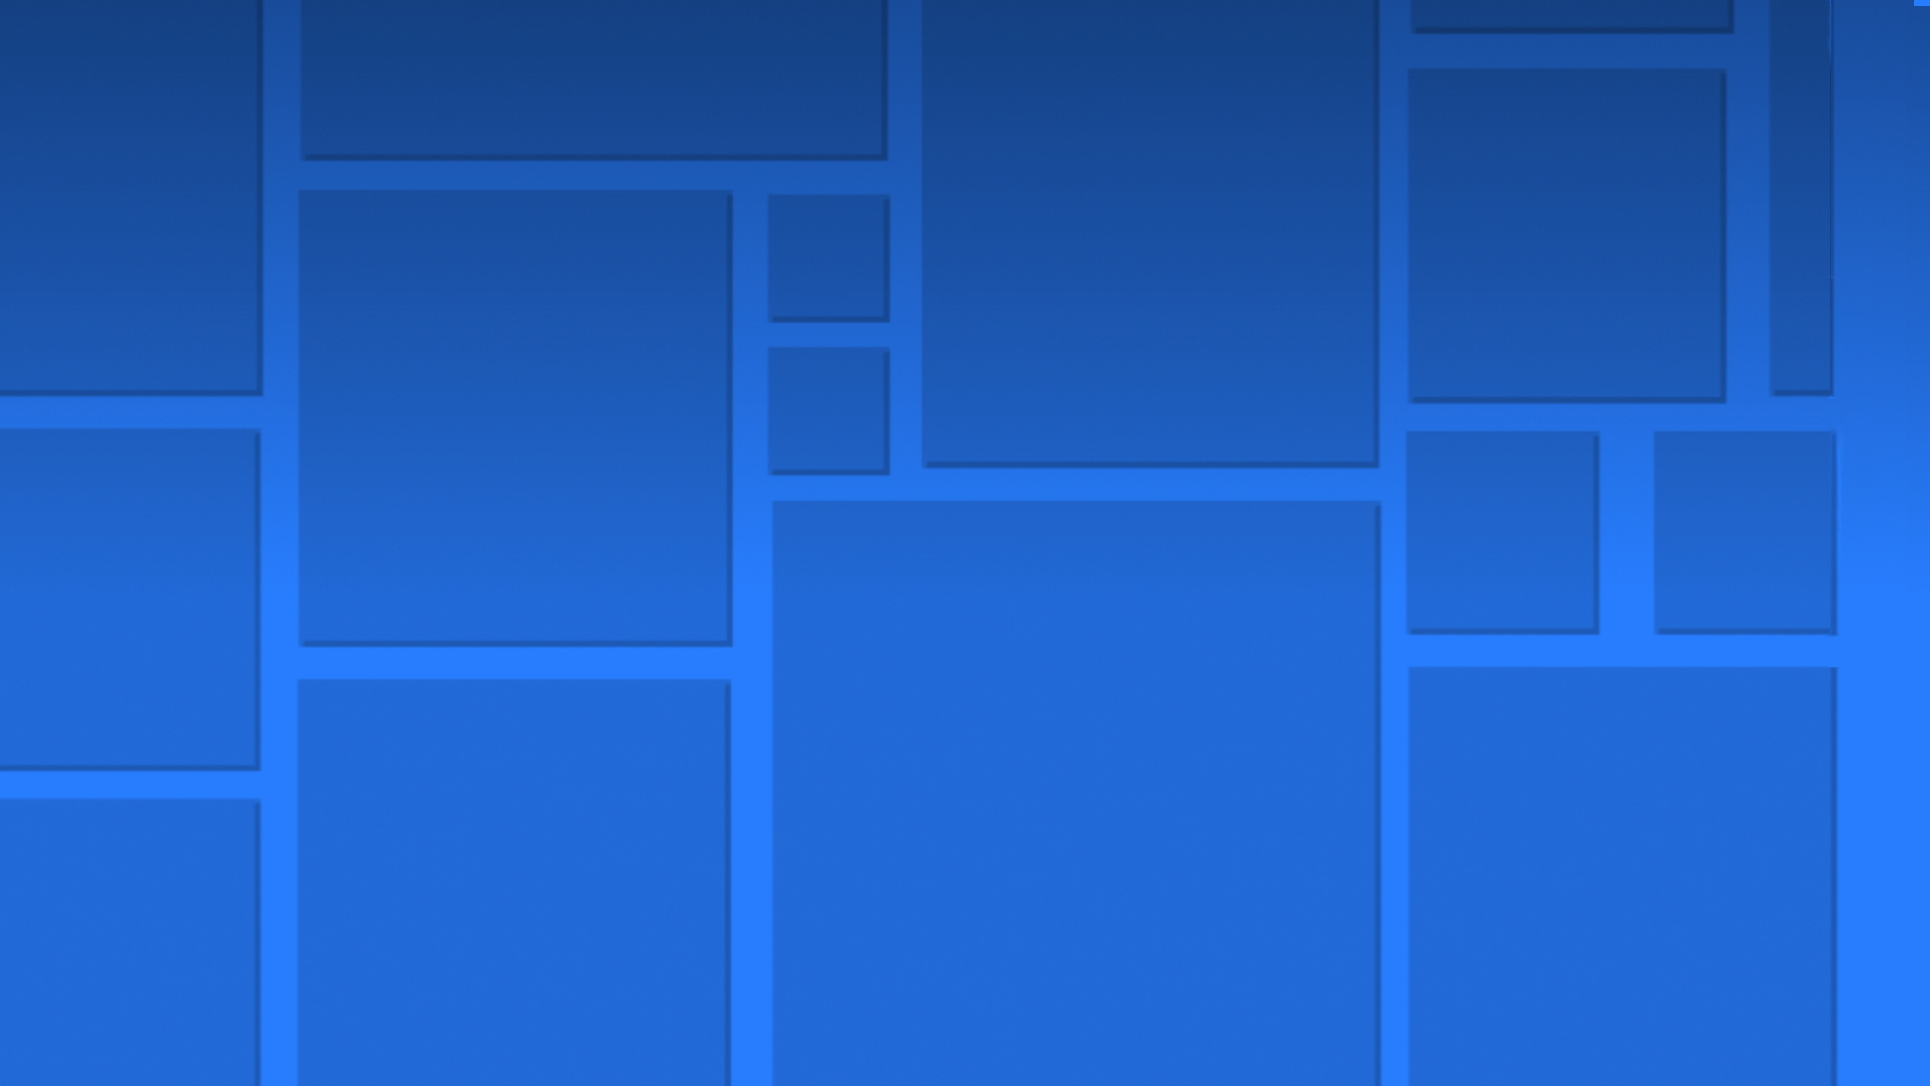
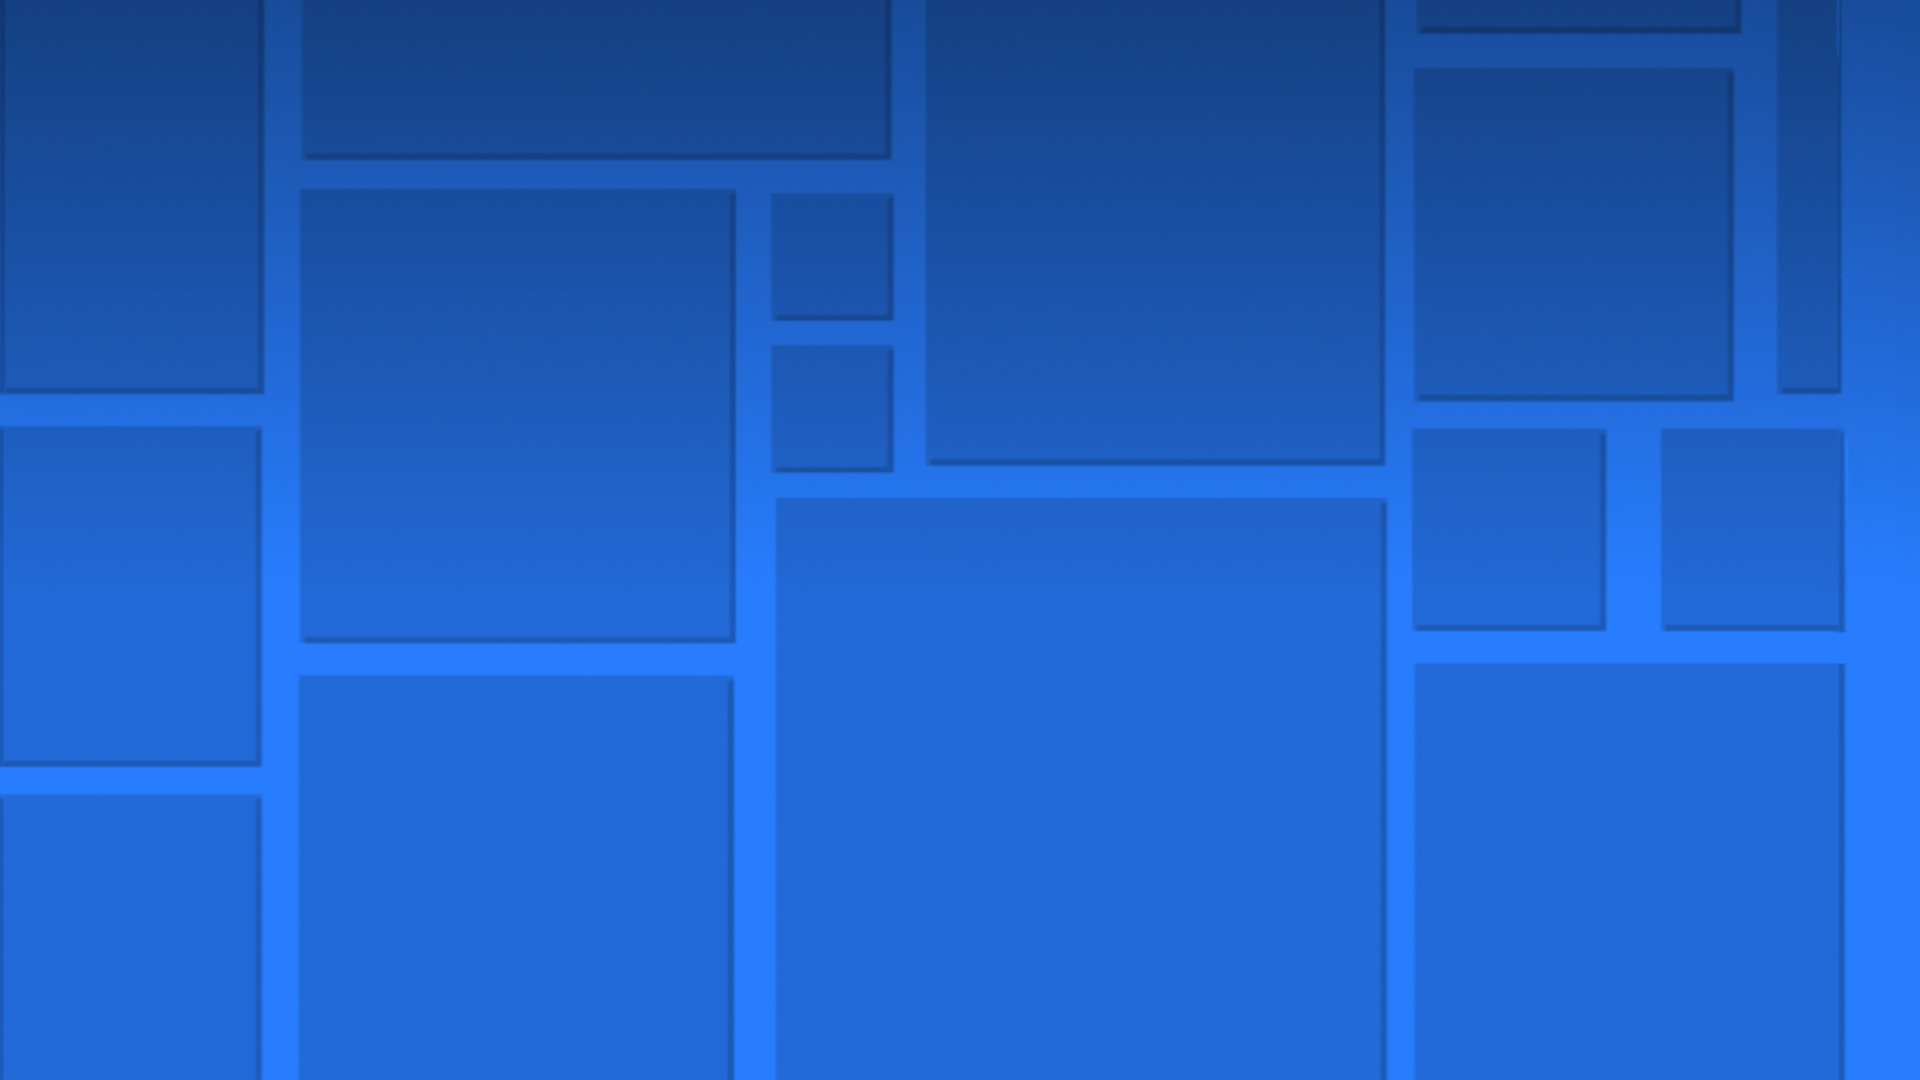
Working on character controls

diff --git a/main.py b/main.py
@@ -44,18 +44,39 @@ class Player:
         self.rotation = 0
         self.x: int = 960
         self.y: int = 1080 - self.height
-        self.id = id
+        self.id: int = id
+        self.rotation: int = 0
+        self.velocity: int = 0
+        self.force: int = 0
+
+        self.jumping: bool = False
 
     def draw(self) -> None:
         screen.blit(self.avatar, (self.x, self.y))
 
+        if self.jumping:
+            if self.force >= 1:
+                self.velocity = -5 + (self.force/2)
+                self.force -= 1
+                self.y -= self.velocity
+
+        if self.y >= 1080-self.height:
+            self.jumping, self.velocity, self.force = False, 0, 0
+            self.y = 1080-self.height
+
+    def jump(self) -> None:
+        if not self.jumping:
+            self.force = 20
+            self.jumping = True
+
 class Text:
     def __init__(self, img, x: int, y: int, id: int = 0) -> None:
         self.img = img
-        self.x = x
-        self.y = y
-        self.width, height = 0, 0
-        self.id = id
+        self.x: int = x
+        self.y: int = y
+        self.width: int = 0
+        self.height: int = 0
+        self.id: int = id
 
     def draw(self) -> None:
         if self.img:
@@ -77,7 +98,7 @@ class StartingScreen(Template):
     def __init__(self, screen, mainPlayer) -> None:
         self.screen = screen
 
-        self.bg1, self.bg2 = SimpleArt(Data.squares1, 0, 0, id=1), SimpleArt(Data.squares2, 1930, 0, id=1)
+        self.bg1, self.bg2 = SimpleArt(Data.squares1, 0, 0, id=1), SimpleArt(Data.squares2, 1920, 0, id=1)
 
         self.objects.extend((self.bg1,
             self.bg2,
@@ -94,6 +115,14 @@ class StartingScreen(Template):
                 obj.x -= 1
                 if obj.x < -1920:
                     obj.x = 1920
+            elif obj.id == 2:
+                obj.x += 7
+                if obj.x > 1920+obj.width:
+                    obj.x = 0-obj.width
+
+        keys = pygame.key.get_pressed()
+        if keys[pygame.K_SPACE]:
+            mainPlayer.jump()
 
         return self.response
     
@@ -103,7 +132,7 @@ class StartingScreen(Template):
 
 frames: dict[int, Template] = {0: StartingScreen}
 frameCount: int = 0
-mainPlayer: Player = Player()
+mainPlayer: Player = Player(id=2)
 loadedFrames: list[Template] = [frames[0](screen, mainPlayer)]
 currentFrame: Template = loadedFrames[0]
 
@@ -119,4 +148,4 @@ if __name__ == "__main__":
 
 
         pygame.display.flip()
-        clock.tick(75)
+        clock.tick(100)
